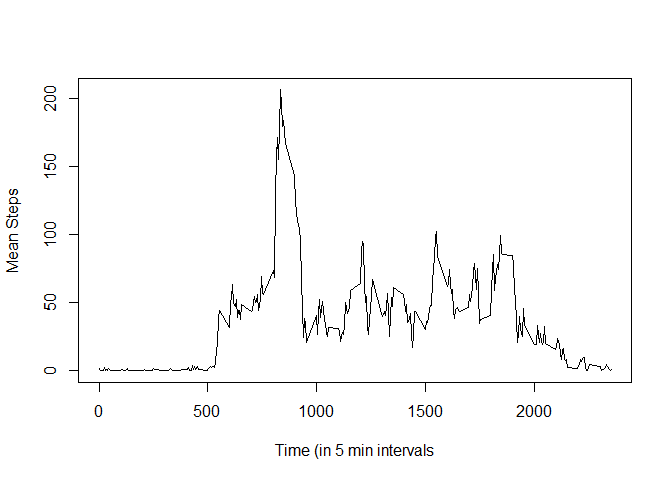
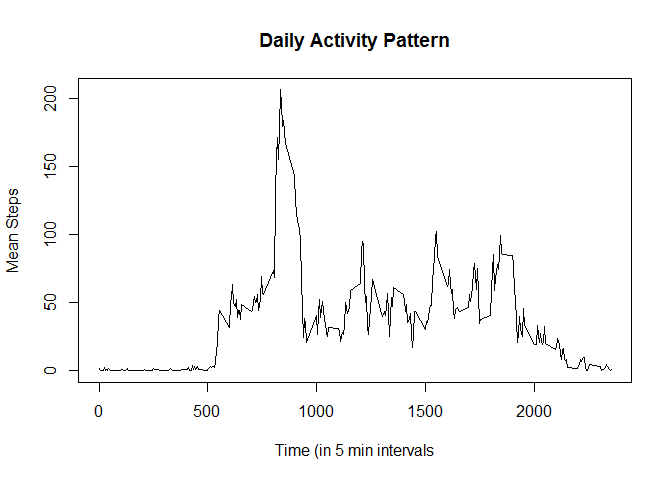
more fixing of the document

Changed region(s): [[0.375, 0.0625, 0.6875, 0.125]]

diff --git a/PA1_template.html b/PA1_template.html
@@ -121,12 +121,12 @@ $(document).ready(function () {
 
 <div id="loading-and-preprocessing-the-data" class="section level2">
 <h2>Loading and preprocessing the data</h2>
-<pre class="r"><code>x&lt;-read.csv(&quot;activity.csv&quot;)
+<pre class="r"><code>activity&lt;-read.csv(&quot;activity.csv&quot;)
 
 ##remove N
-x2&lt;-as.data.frame(x[complete.cases(x),])
-dates&lt;-unique(as.Date(x2$date))
-days&lt;-split(x2,as.factor(x2$date))</code></pre>
+activity_cc&lt;-as.data.frame(activity[complete.cases(activity),])
+dates&lt;-unique(as.Date(activity_cc$date))
+days&lt;-split(activity_cc,as.factor(activity_cc$date))</code></pre>
 </div>
 <div id="what-is-mean-total-number-of-steps-taken-per-day" class="section level2">
 <h2>What is mean total number of steps taken per day?</h2>
@@ -137,8 +137,8 @@ doSum&lt;-function(day) {
 }
 
 ##breaking the data into days
-dates&lt;-unique(as.Date(x2$date))
-days&lt;-split(x2,as.factor(x2$date))
+dates&lt;-unique(as.Date(activity_cc$date))
+days&lt;-split(activity_cc,as.factor(activity_cc$date))
 
 ##creating the daily total for the steps
 dailySteps&lt;-as.numeric(lapply(days,doSum))
@@ -153,57 +153,60 @@ summary(dailySteps)</code></pre>
 </div>
 <div id="what-is-the-average-daily-activity-pattern" class="section level2">
 <h2>What is the average daily activity pattern?</h2>
+<p>I will spread the complete data set so that each interval is a column (fat data.) I will then create the mean of the columns to obtain the mean steps per interval. I will get the time intervals from the names of this dataset and then plot the means vs the times</p>
 <pre class="r"><code>require(tidyr)</code></pre>
 <pre><code>## Loading required package: tidyr</code></pre>
-<pre class="r"><code>x4&lt;-spread(x2,interval,steps)
+<pre class="r"><code>activity_int&lt;-spread(activity_cc,interval,steps)
 
-sumcol&lt;-subset(x4, select = -date)
+sumcol&lt;-subset(activity_int, select = -date)
 cmeans&lt;-colMeans(sumcol)
-ctimes&lt;-names(x4)
+ctimes&lt;-names(activity_int)
 ctimes&lt;-ctimes[2:289]
-plot(x=ctimes,y=cmeans,type=&quot;l&quot;,xlab = &quot;Time (in 5 min intervals&quot;,ylab = &quot;Mean Steps&quot;)</code></pre>
[1 lines of base64/hex data omitted]
+plot(x=ctimes,y=cmeans,type=&quot;l&quot;,xlab = &quot;Time (in 5 min intervals&quot;,ylab = &quot;Mean Steps&quot;, main=&quot;Daily Activity Pattern&quot;)</code></pre>
[1 lines of base64/hex data omitted]
 </div>
 <div id="imputing-missing-values" class="section level2">
 <h2>Imputing missing values</h2>
-<p>NOTE: My method for creating the missing values is taking the average for each interval using the dataset with only complete clases (x2 ) I then get a list of incomplete rows and for each empty value I replace it with the mean value for that 5 minute interval.</p>
-<pre class="r"><code>x4&lt;-spread(x2,interval,steps)
-
-sumcol&lt;-subset(x4, select = -date)
-cmeans&lt;-colMeans(sumcol)
-
-replace&lt;-which(is.na(x$steps))
-
-print(length(replace))</code></pre>
+<p>NOTE: My method for creating the missing values is taking the average for each interval using the dataset with only complete clases (x2 ) I then get a list of incomplete rows and for each empty value I replace it with the mean value for that 5 minute interval. Calculate the rows that need to be replaced</p>
+<pre class="r"><code>replace&lt;-which(is.na(activity$steps))</code></pre>
+<p>Calculate the number of rows by getting the length</p>
+<pre class="r"><code>length(replace)</code></pre>
 <pre><code>## [1] 2304</code></pre>
+<p>Do the replacement</p>
 <pre class="r"><code>## for each item in x if is.na(Steps) replace with
 ## cmeans[row]
 for(i in replace) {
     row&lt;-i %% 288 + 1  ##each day has 288 intervals so I figure out what interval it is using the modulo of 288 +1 (since its base 1)
     rep&lt;-as.integer(cmeans[row])
-    x[i,1]&lt;- rep
-}
-dates&lt;-unique(as.Date(x$date))
-days&lt;-split(x,as.factor(x$date))
+    activity[i,1]&lt;- rep
+}</code></pre>
+<p>Create the histogram of data with NA’s replaced</p>
+<pre class="r"><code>dates&lt;-unique(as.Date(activity$date))
+days&lt;-split(activity,as.factor(activity$date))
 dailySteps&lt;-as.numeric(lapply(days,doSum))
 dailySteps&lt;-dailySteps[dailySteps&gt;0]
 hist(dailySteps)</code></pre>
[1 lines of base64/hex data omitted]
+<p>The summary of daily steps where NA is replaced</p>
 <pre class="r"><code>summary(dailySteps)</code></pre>
 <pre><code>##    Min. 1st Qu.  Median    Mean 3rd Qu.    Max. 
 ##      41    9819   10640   10750   12810   21190</code></pre>
 </div>
 <div id="are-there-differences-in-activity-patterns-between-weekdays-and-weekends" class="section level2">
 <h2>Are there differences in activity patterns between weekdays and weekends?</h2>
-<pre class="r"><code>dows&lt;-weekdays(as.Date(x$date))
+<p>Process the updated data (where NA is replace) to create separate datasets for weekends and weekdays and create timeseries graphs</p>
+<pre class="r"><code>##create the weekday and weekend column
+dows&lt;-weekdays(as.Date(activity$date))
 dows[dows==&quot;Sunday&quot; | dows==&quot;Saturday&quot;]&lt;-&quot;Weekend&quot;
 dows[!(dows==&quot;Weekend&quot;)]&lt;-&quot;Weekday&quot;
-x_wd&lt;-cbind(x,dows)
+
+##bind it to the updated data and then splt using the weekend/weekday column as a factor
+x_wd&lt;-cbind(activity,dows)
 days2&lt;-split(x_wd,as.factor(x_wd$dows))
 wdVal&lt;-days2[[1]]
 weVal&lt;-days2[[2]]
-par(mfcol=c(2,1))
-par(mar=c( 2.1, 4.1, 2.1, 2.1))
+
+##spread the data and calculate the means as was done earlier
 wdVal2&lt;-subset(wdVal,select = -dows)
 wd2&lt;-spread(wdVal2,interval,steps)
 
@@ -211,7 +214,13 @@ sumcol&lt;-subset(wd2, select = -date)
 cmeans&lt;-colMeans(sumcol)
 ctimes&lt;-names(wd2)
 ctimes&lt;-ctimes[2:289]
+
+##setup and create the first plot
+par(mfcol=c(2,1))
+par(mar=c( 2.1, 4.1, 2.1, 2.1))
 plot(x=ctimes,y=cmeans,type=&quot;l&quot;,xlab = &quot;Time (in 5 min intervals&quot;,ylab = &quot;Mean Steps&quot;, main = &quot;Weekday Steps&quot;)
+
+##do the same for the weekend data
 weVal2&lt;-subset(weVal,select = -dows)
 we2&lt;-spread(weVal2,interval,steps)
 

diff --git a/PA1_template.md b/PA1_template.md
@@ -5,12 +5,12 @@
 
 
 ```r
-x<-read.csv("activity.csv")
+activity<-read.csv("activity.csv")
 
 ##remove N
-x2<-as.data.frame(x[complete.cases(x),])
-dates<-unique(as.Date(x2$date))
-days<-split(x2,as.factor(x2$date))
+activity_cc<-as.data.frame(activity[complete.cases(activity),])
+dates<-unique(as.Date(activity_cc$date))
+days<-split(activity_cc,as.factor(activity_cc$date))
 ```
 
 ## What is mean total number of steps taken per day?
@@ -23,8 +23,8 @@ doSum<-function(day) {
 }
 
 ##breaking the data into days
-dates<-unique(as.Date(x2$date))
-days<-split(x2,as.factor(x2$date))
+dates<-unique(as.Date(activity_cc$date))
+days<-split(activity_cc,as.factor(activity_cc$date))
 
 ##creating the daily total for the steps
 dailySteps<-as.numeric(lapply(days,doSum))
@@ -49,6 +49,9 @@ summary(dailySteps)
 
 ## What is the average daily activity pattern?
 
+I will spread the complete data set so that each interval is a column (fat data.)  I will then create the mean of the columns
+to obtain the mean steps per interval.  I will get the time intervals from the names of this dataset and then plot the means vs the times
+
 
 ```r
 require(tidyr)
@@ -59,13 +62,13 @@ require(tidyr)
 ```
 
 ```r
-x4<-spread(x2,interval,steps)
+activity_int<-spread(activity_cc,interval,steps)
 
-sumcol<-subset(x4, select = -date)
+sumcol<-subset(activity_int, select = -date)
 cmeans<-colMeans(sumcol)
-ctimes<-names(x4)
+ctimes<-names(activity_int)
 ctimes<-ctimes[2:289]
-plot(x=ctimes,y=cmeans,type="l",xlab = "Time (in 5 min intervals",ylab = "Mean Steps")
+plot(x=ctimes,y=cmeans,type="l",xlab = "Time (in 5 min intervals",ylab = "Mean Steps", main="Daily Activity Pattern")
 ```
 
 ![](PA1_template_files/figure-html/dailyActivity-1.png)<!-- -->
@@ -75,21 +78,23 @@ plot(x=ctimes,y=cmeans,type="l",xlab = "Time (in 5 min intervals",ylab = "Mean S
 ## Imputing missing values
 NOTE: My method for creating the missing values is taking the average for each interval using the dataset with only complete clases (x2
 )  I then get a list of incomplete rows and for each empty value I replace it with the mean value for that 5 minute interval.
+Calculate the rows that need to be replaced
 
 ```r
-x4<-spread(x2,interval,steps)
+replace<-which(is.na(activity$steps))
+```
 
-sumcol<-subset(x4, select = -date)
-cmeans<-colMeans(sumcol)
+Calculate the number of rows by getting the length
 
-replace<-which(is.na(x$steps))
-
-print(length(replace))
+```r
+length(replace)
 ```
 
 ```
 ## [1] 2304
 ```
+
+Do the replacement
 
 ```r
 ## for each item in x if is.na(Steps) replace with
@@ -97,16 +102,24 @@ print(length(replace))
 for(i in replace) {
     row<-i %% 288 + 1  ##each day has 288 intervals so I figure out what interval it is using the modulo of 288 +1 (since its base 1)
     rep<-as.integer(cmeans[row])
-    x[i,1]<- rep
+    activity[i,1]<- rep
 }
-dates<-unique(as.Date(x$date))
-days<-split(x,as.factor(x$date))
+```
+
+Create the histogram of data with NA's replaced
+
+```r
+dates<-unique(as.Date(activity$date))
+days<-split(activity,as.factor(activity$date))
 dailySteps<-as.numeric(lapply(days,doSum))
 dailySteps<-dailySteps[dailySteps>0]
 hist(dailySteps)
 ```
 
 ![](PA1_template_files/figure-html/dailySteps2-1.png)<!-- -->
+
+The summary of daily steps where NA is replaced
+
 
 ```r
 summary(dailySteps)
@@ -120,17 +133,21 @@ summary(dailySteps)
 
 ## Are there differences in activity patterns between weekdays and weekends?
 
+Process the updated data (where NA is replace) to create separate datasets for weekends and weekdays and create timeseries graphs
 
 ```r
-dows<-weekdays(as.Date(x$date))
+##create the weekday and weekend column
+dows<-weekdays(as.Date(activity$date))
 dows[dows=="Sunday" | dows=="Saturday"]<-"Weekend"
 dows[!(dows=="Weekend")]<-"Weekday"
-x_wd<-cbind(x,dows)
+
+##bind it to the updated data and then splt using the weekend/weekday column as a factor
+x_wd<-cbind(activity,dows)
 days2<-split(x_wd,as.factor(x_wd$dows))
 wdVal<-days2[[1]]
 weVal<-days2[[2]]
-par(mfcol=c(2,1))
-par(mar=c( 2.1, 4.1, 2.1, 2.1))
+
+##spread the data and calculate the means as was done earlier
 wdVal2<-subset(wdVal,select = -dows)
 wd2<-spread(wdVal2,interval,steps)
 
@@ -138,7 +155,13 @@ sumcol<-subset(wd2, select = -date)
 cmeans<-colMeans(sumcol)
 ctimes<-names(wd2)
 ctimes<-ctimes[2:289]
+
+##setup and create the first plot
+par(mfcol=c(2,1))
+par(mar=c( 2.1, 4.1, 2.1, 2.1))
 plot(x=ctimes,y=cmeans,type="l",xlab = "Time (in 5 min intervals",ylab = "Mean Steps", main = "Weekday Steps")
+
+##do the same for the weekend data
 weVal2<-subset(weVal,select = -dows)
 we2<-spread(weVal2,interval,steps)
 
